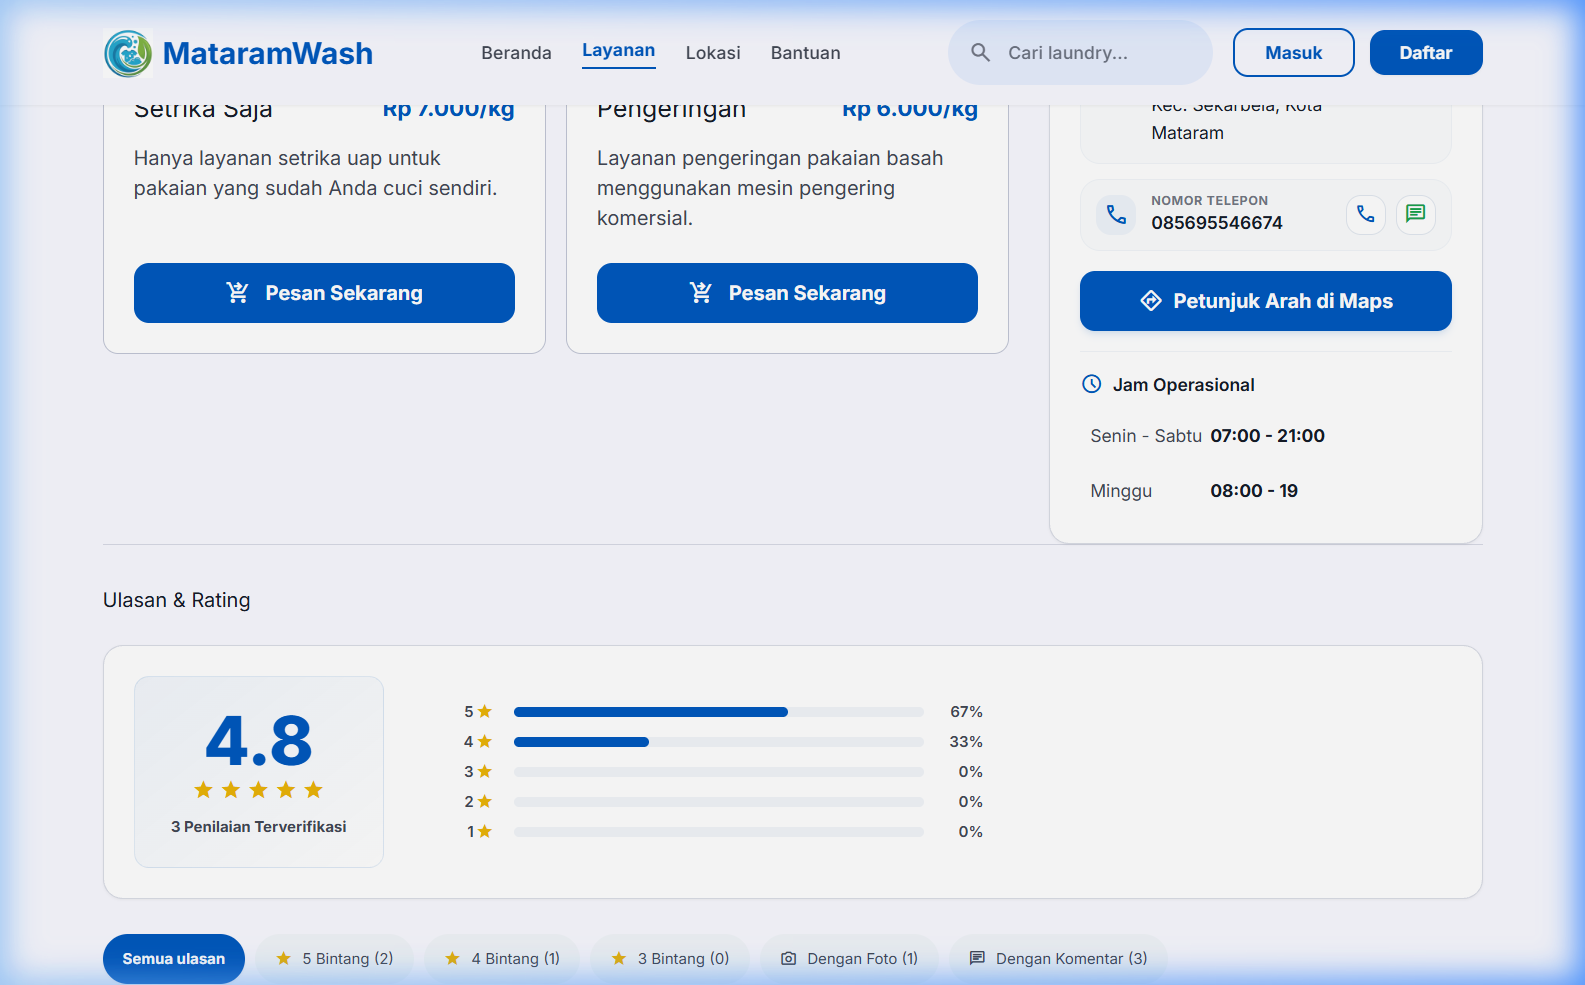
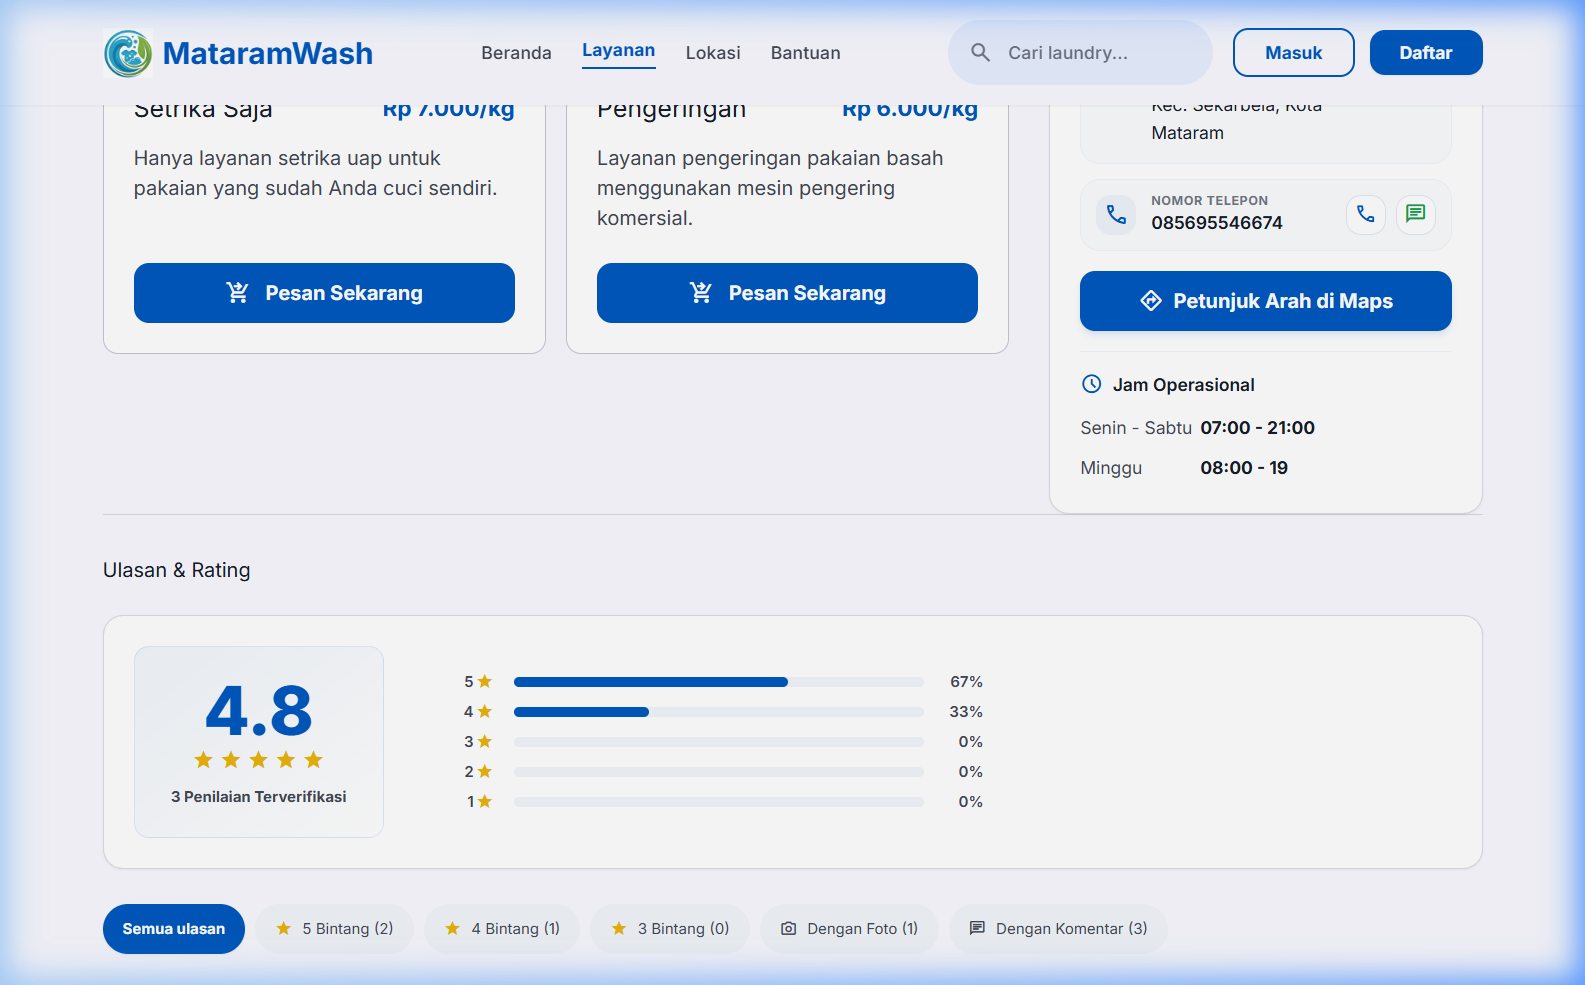
Merapikan celah vertikal jam operasional detail partner (rapat ke bawah)

diff --git a/Mitra laundry/detail_template.php b/Mitra laundry/detail_template.php
@@ -910,7 +910,7 @@ $logo_url = $partner_logos[$id_mitra] ?? $partner_logos[1];
                                 $time = $line;
                             }
                         ?>
-                        <div class="flex justify-between p-xs hover:bg-surface-container/30 rounded-lg transition-colors text-sm">
+                        <div class="flex py-[2px] text-sm">
                             <span class="text-on-surface-variant w-24 shrink-0 text-left"><?= htmlspecialchars($day); ?></span>
                             <span class="font-bold text-on-surface flex-1 text-left"><?= htmlspecialchars($time); ?></span>
                         </div>

diff --git a/admin/edit_mitra.php b/admin/edit_mitra.php
@@ -216,7 +216,7 @@ if ($_SERVER['REQUEST_METHOD'] === 'POST') {
                         $day = 'Jam Kerja';
                         $time = $line;
                     }
-                    $jam_operasional_html_content .= "    <div class=\"flex justify-between p-xs hover:bg-surface-container/30 rounded-lg transition-colors text-sm\">\n" .
+                    $jam_operasional_html_content .= "    <div class=\"flex py-[2px] text-sm\">\n" .
                                                      "        <span class=\"text-on-surface-variant w-24 shrink-0 text-left\">" . htmlspecialchars($day) . "</span>\n" .
                                                      "        <span class=\"font-bold text-on-surface flex-1 text-left\">" . htmlspecialchars($time) . "</span>\n" .
                                                      "    </div>\n";

diff --git a/admin/tambah_mitra.php b/admin/tambah_mitra.php
@@ -152,7 +152,7 @@ if ($_SERVER['REQUEST_METHOD'] === 'POST') {
                         $day = 'Jam Kerja';
                         $time = $line;
                     }
-                    $jam_operasional_html_content .= "    <div class=\"flex justify-between p-xs hover:bg-surface-container/30 rounded-lg transition-colors text-sm\">\n" .
+                    $jam_operasional_html_content .= "    <div class=\"flex py-[2px] text-sm\">\n" .
                                                      "        <span class=\"text-on-surface-variant w-24 shrink-0 text-left\">" . htmlspecialchars($day) . "</span>\n" .
                                                      "        <span class=\"font-bold text-on-surface flex-1 text-left\">" . htmlspecialchars($time) . "</span>\n" .
                                                      "    </div>\n";

diff --git a/mataramwash_laravel/resources/views/mitra/detail.blade.php b/mataramwash_laravel/resources/views/mitra/detail.blade.php
@@ -797,7 +797,7 @@
                                     $time = $line;
                                 }
                             @endphp
-                            <div class="flex justify-between p-xs hover:bg-surface-container/30 rounded-lg transition-colors text-sm">
+                            <div class="flex py-[2px] text-sm">
                                 <span class="text-on-surface-variant w-24 shrink-0 text-left">{{ $day }}</span>
                                 <span class="font-bold text-on-surface flex-1 text-left">{{ $time }}</span>
                             </div>